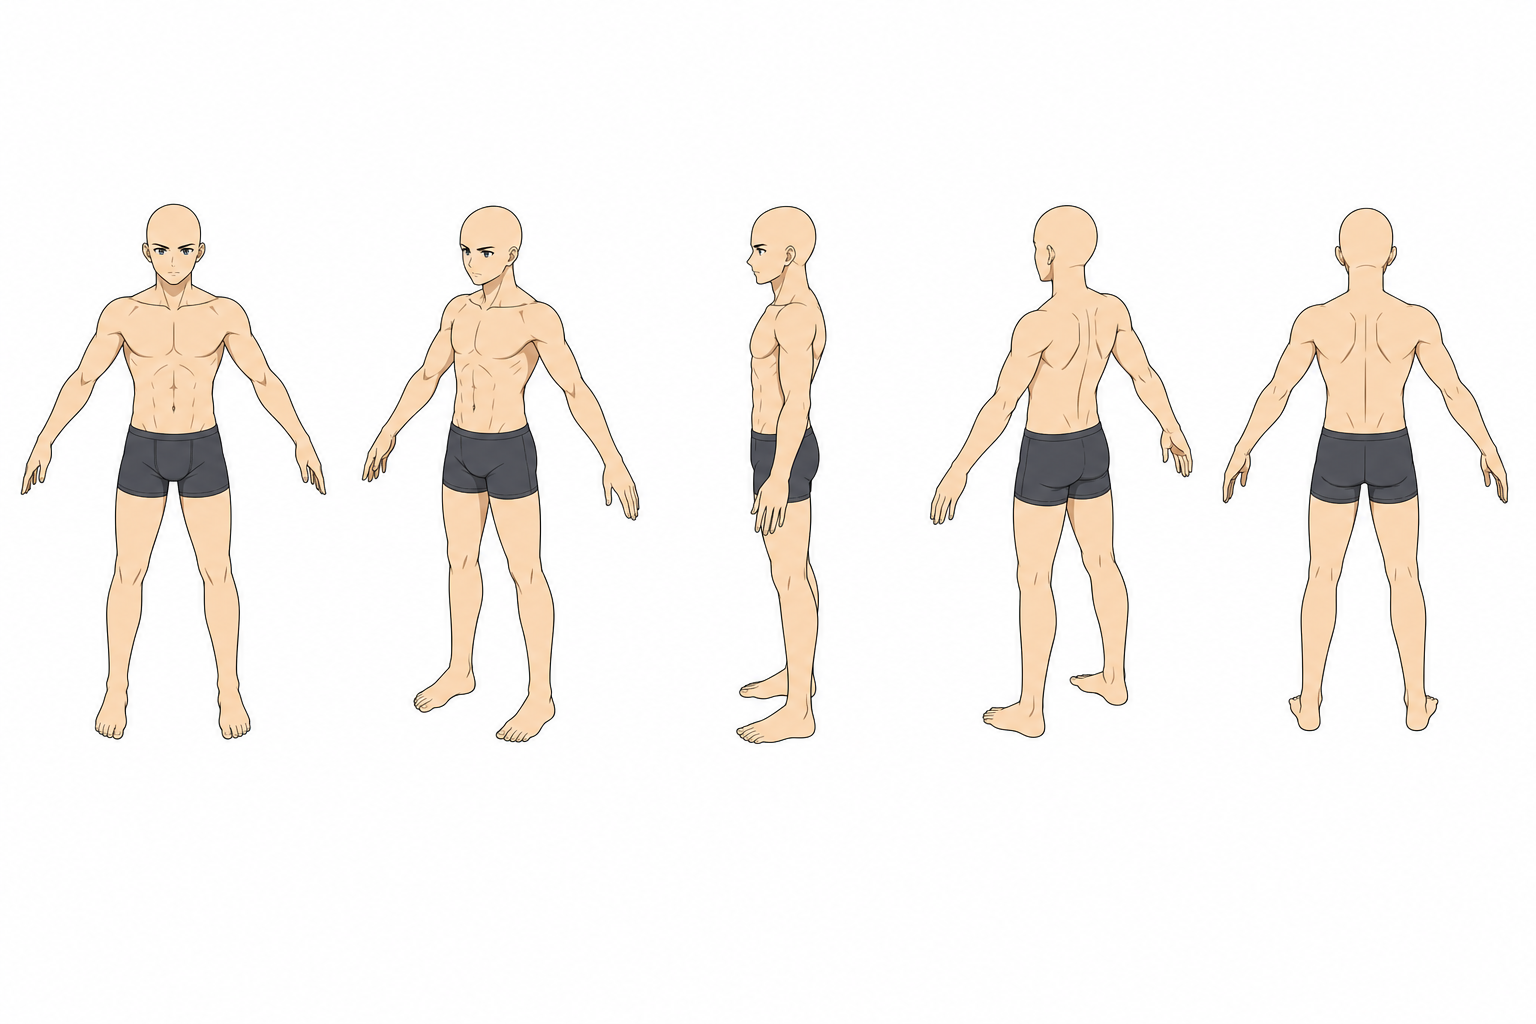
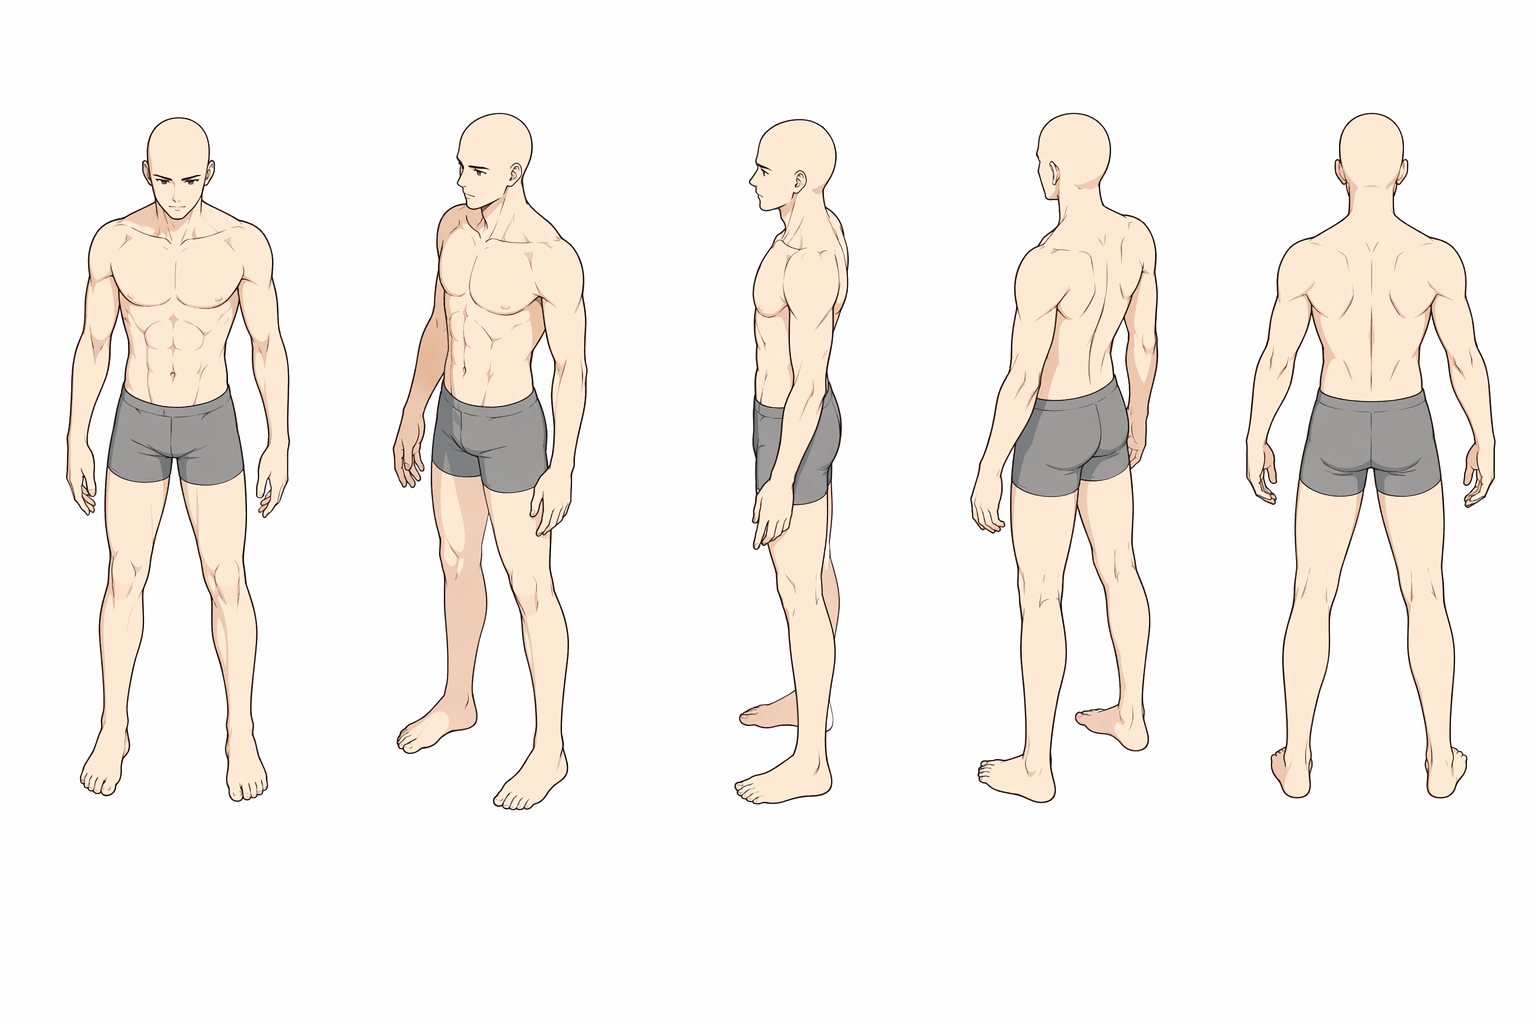
feat: switch male base to natural arms-hanging pose; mirror fix into female prompt

Changed region(s): [[0.5938, 0.0938, 1.0, 0.7812], [0.0, 0.0938, 0.4375, 0.8125], [0.4688, 0.0938, 0.5625, 0.7812]]

diff --git a/prompts/isometric_base_5views_simple.md b/prompts/isometric_base_5views_simple.md
@@ -1,1 +1,1 @@
-等距 2.5D RPG 角色五视图基底，女性，T-pose 站姿，全身入画。四肢自然张开不遮挡躯干，肢体与关节轮廓清晰可分层切割（用于 Spine 骨骼动画）。动漫线稿风，柔和淡彩，纯白背景，无头发，俯视 60°。
+等距 2.5D RPG 角色五视图基底，女性，严格沿用 depth 输入图的姿势：自然站立，双臂自然下垂贴身体两侧，手心朝大腿，不要 T-pose / 不要 A-pose。全身入画。肢体与关节轮廓清晰，便于分层切割（用于 Spine 骨骼动画）。动漫线稿风，柔和淡彩，纯白背景，无头发，俯视 60°。
